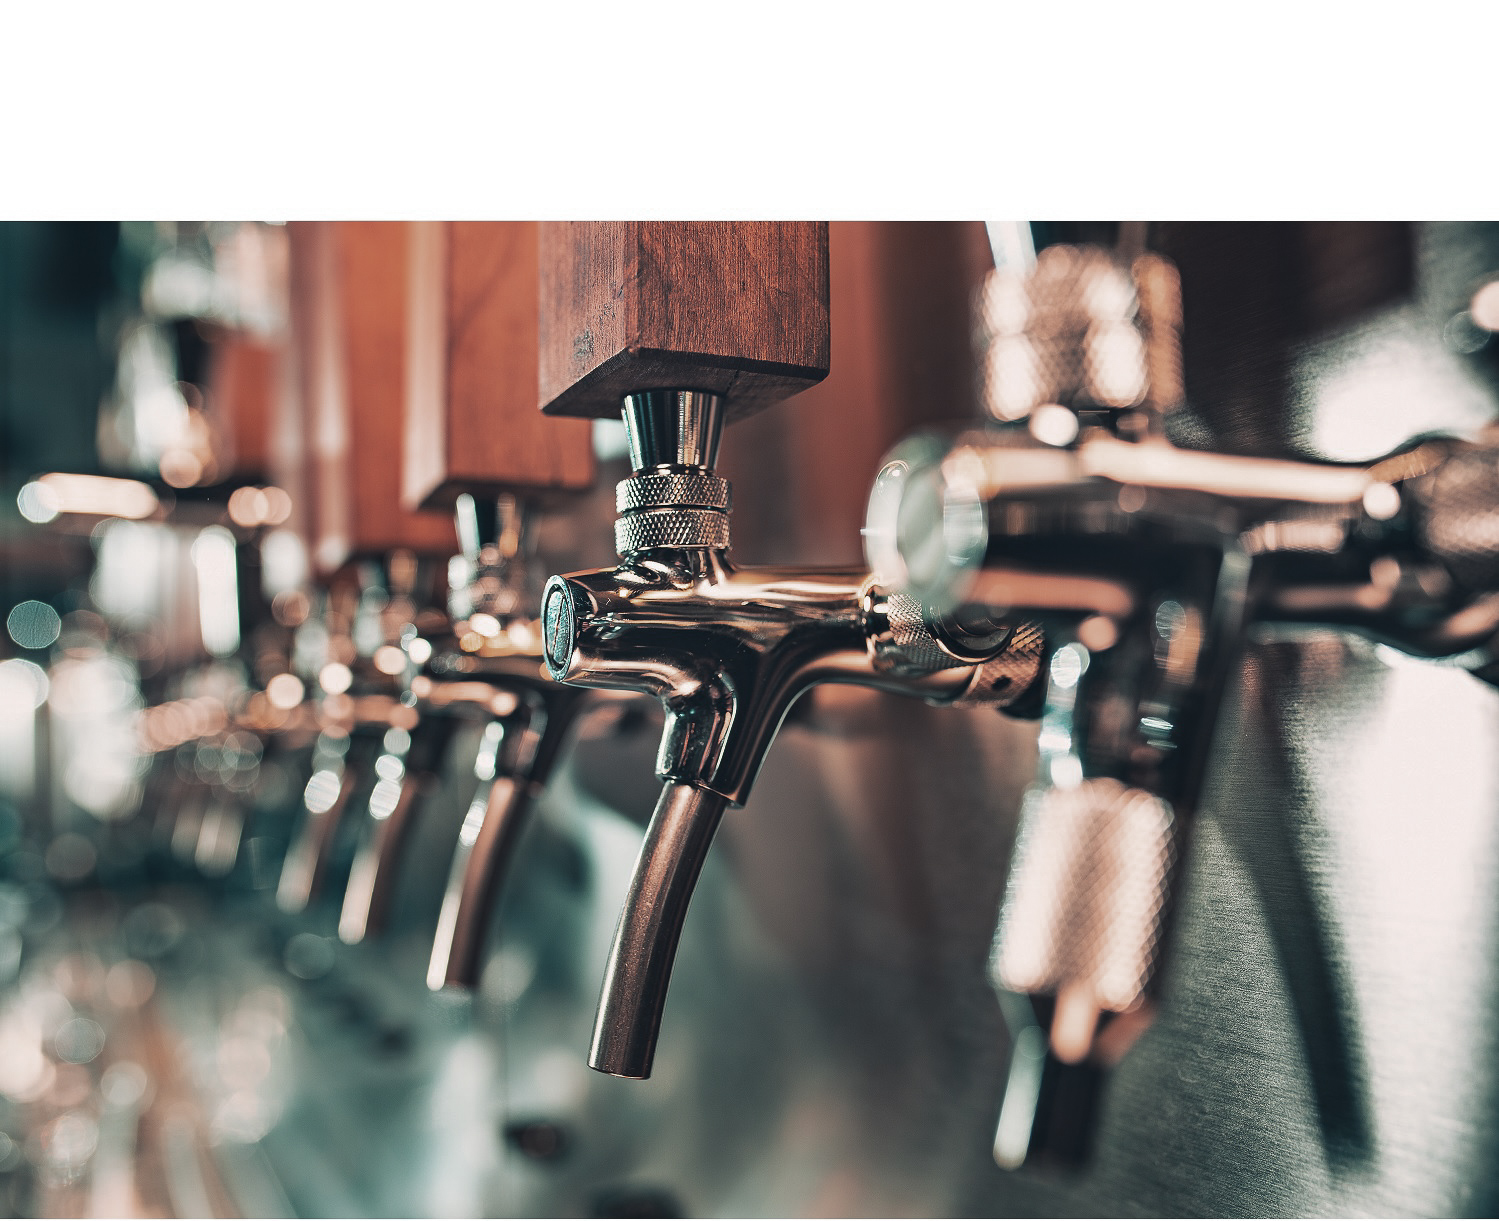
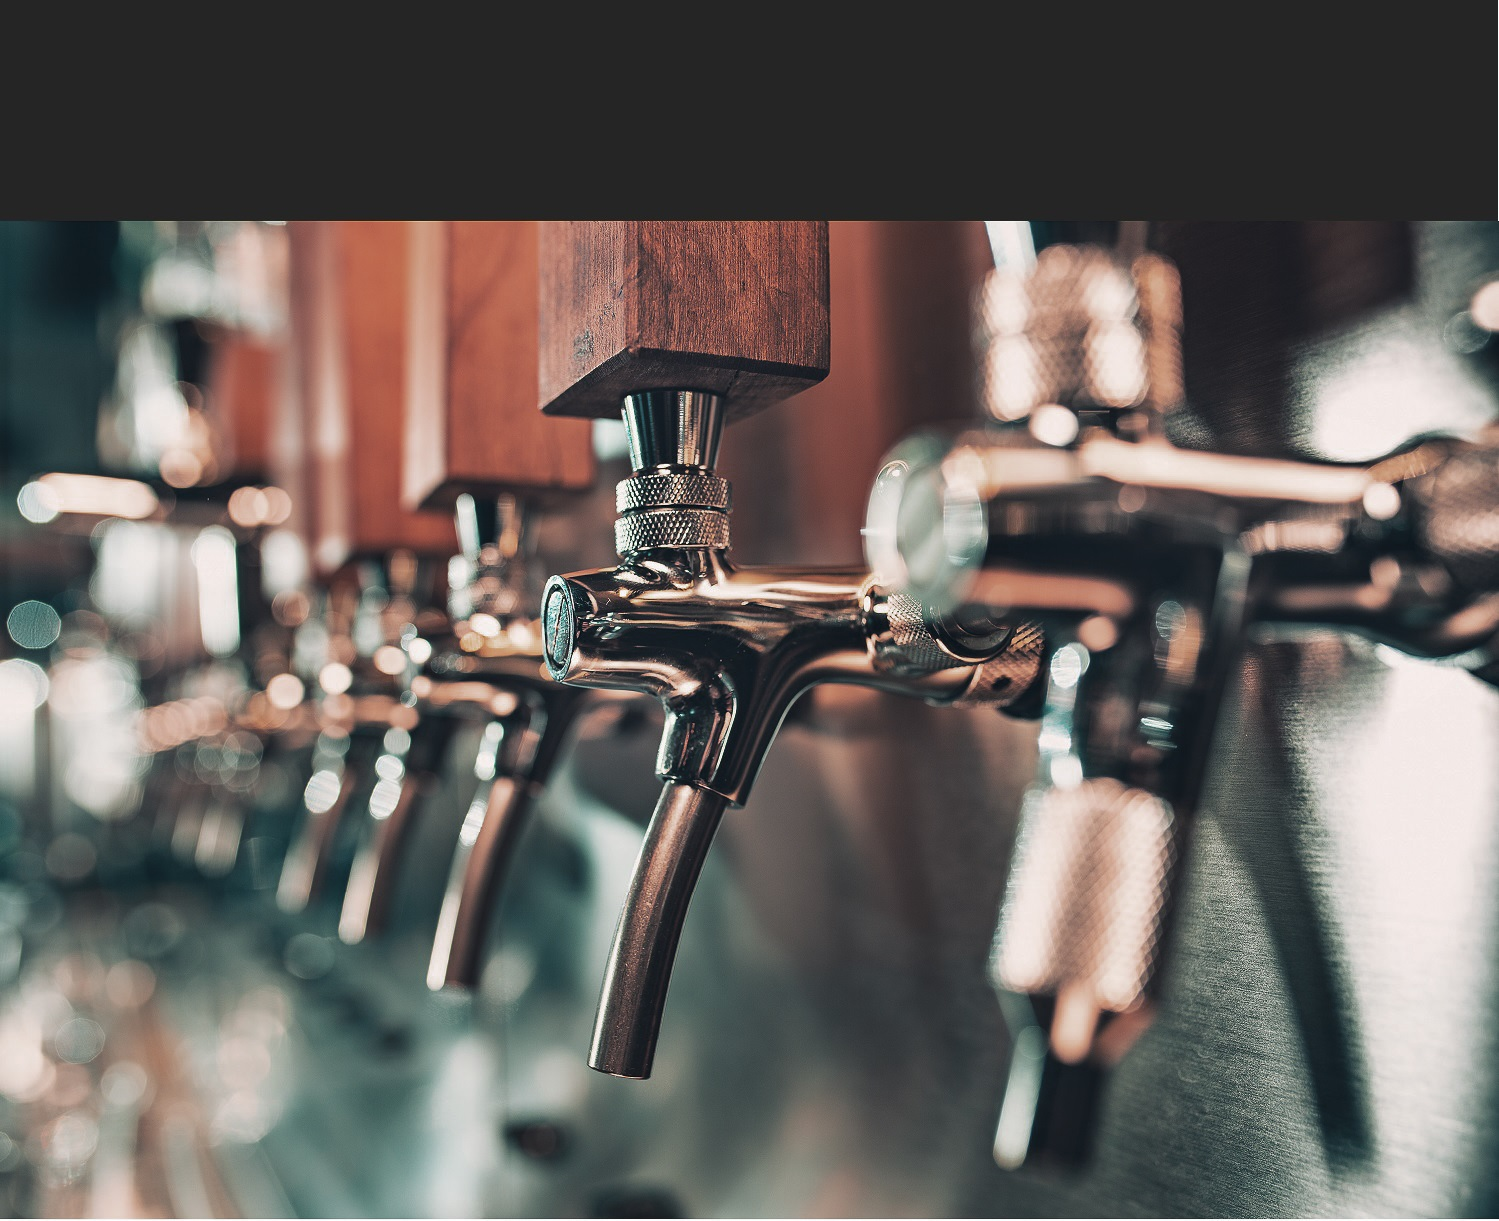
main page styling

Changed region(s): [[0.0, 0.0, 1.0, 0.1867]]

diff --git a/public/assets/css/style.css b/public/assets/css/style.css
@@ -47,8 +47,10 @@ body {
 }
 
 h1 {
+  padding-top: 20px;
   text-align: center;
-  color: black;
+  color: whitesmoke;
+  text-shadow: 3px 3px black;
 }
 
 .form-inline {
@@ -134,7 +136,7 @@ img {
   border: 2px;
   border-radius: 1em;
   padding: 2em;
-  margin-top: 6em;
+  margin-top: 3em;
   margin-bottom: 20em;
   height: 40em;
   /* height: max-content; */
@@ -199,7 +201,7 @@ img {
 
 
 .dropdown-menu {
-  max-height:450px; 
+  max-height:300px; 
   overflow:auto; 
   width:400px;
   display: contents;
@@ -207,8 +209,17 @@ img {
 
 .addBreweryText {
   text-align: center;
-  padding-top: 60px;
-  font-size: 50px;
+  margin-top: 100px;
+  margin-left: 300px;
+  font-size: 30px;
+  font-weight: bolder;
+  color: black;
+}
+
+
+h2{
+  font-weight: bolder !important;
+  color: black;
 }
 
 #city_name {

diff --git a/public/assets/js/addbrewery.js b/public/assets/js/addbrewery.js
@@ -8,7 +8,7 @@ function handleForm2(event) {
   }
 
   const newFormHandler = async (event) => {
-    // event.preventDefault();
+    event.preventDefault();
   
     const cityName= document.querySelector("#city_name").value.trim();
     const breweryName= document.querySelector("#name").value.trim();
@@ -34,8 +34,14 @@ function handleForm2(event) {
           'Content-Type': 'application/json',
         },
       });
+      console.log("successful")
   
     }
+    // add .show/hide here
+    
   };
 
   buttonsub.addEventListener('submit', newFormHandler);
+
+
+ 
